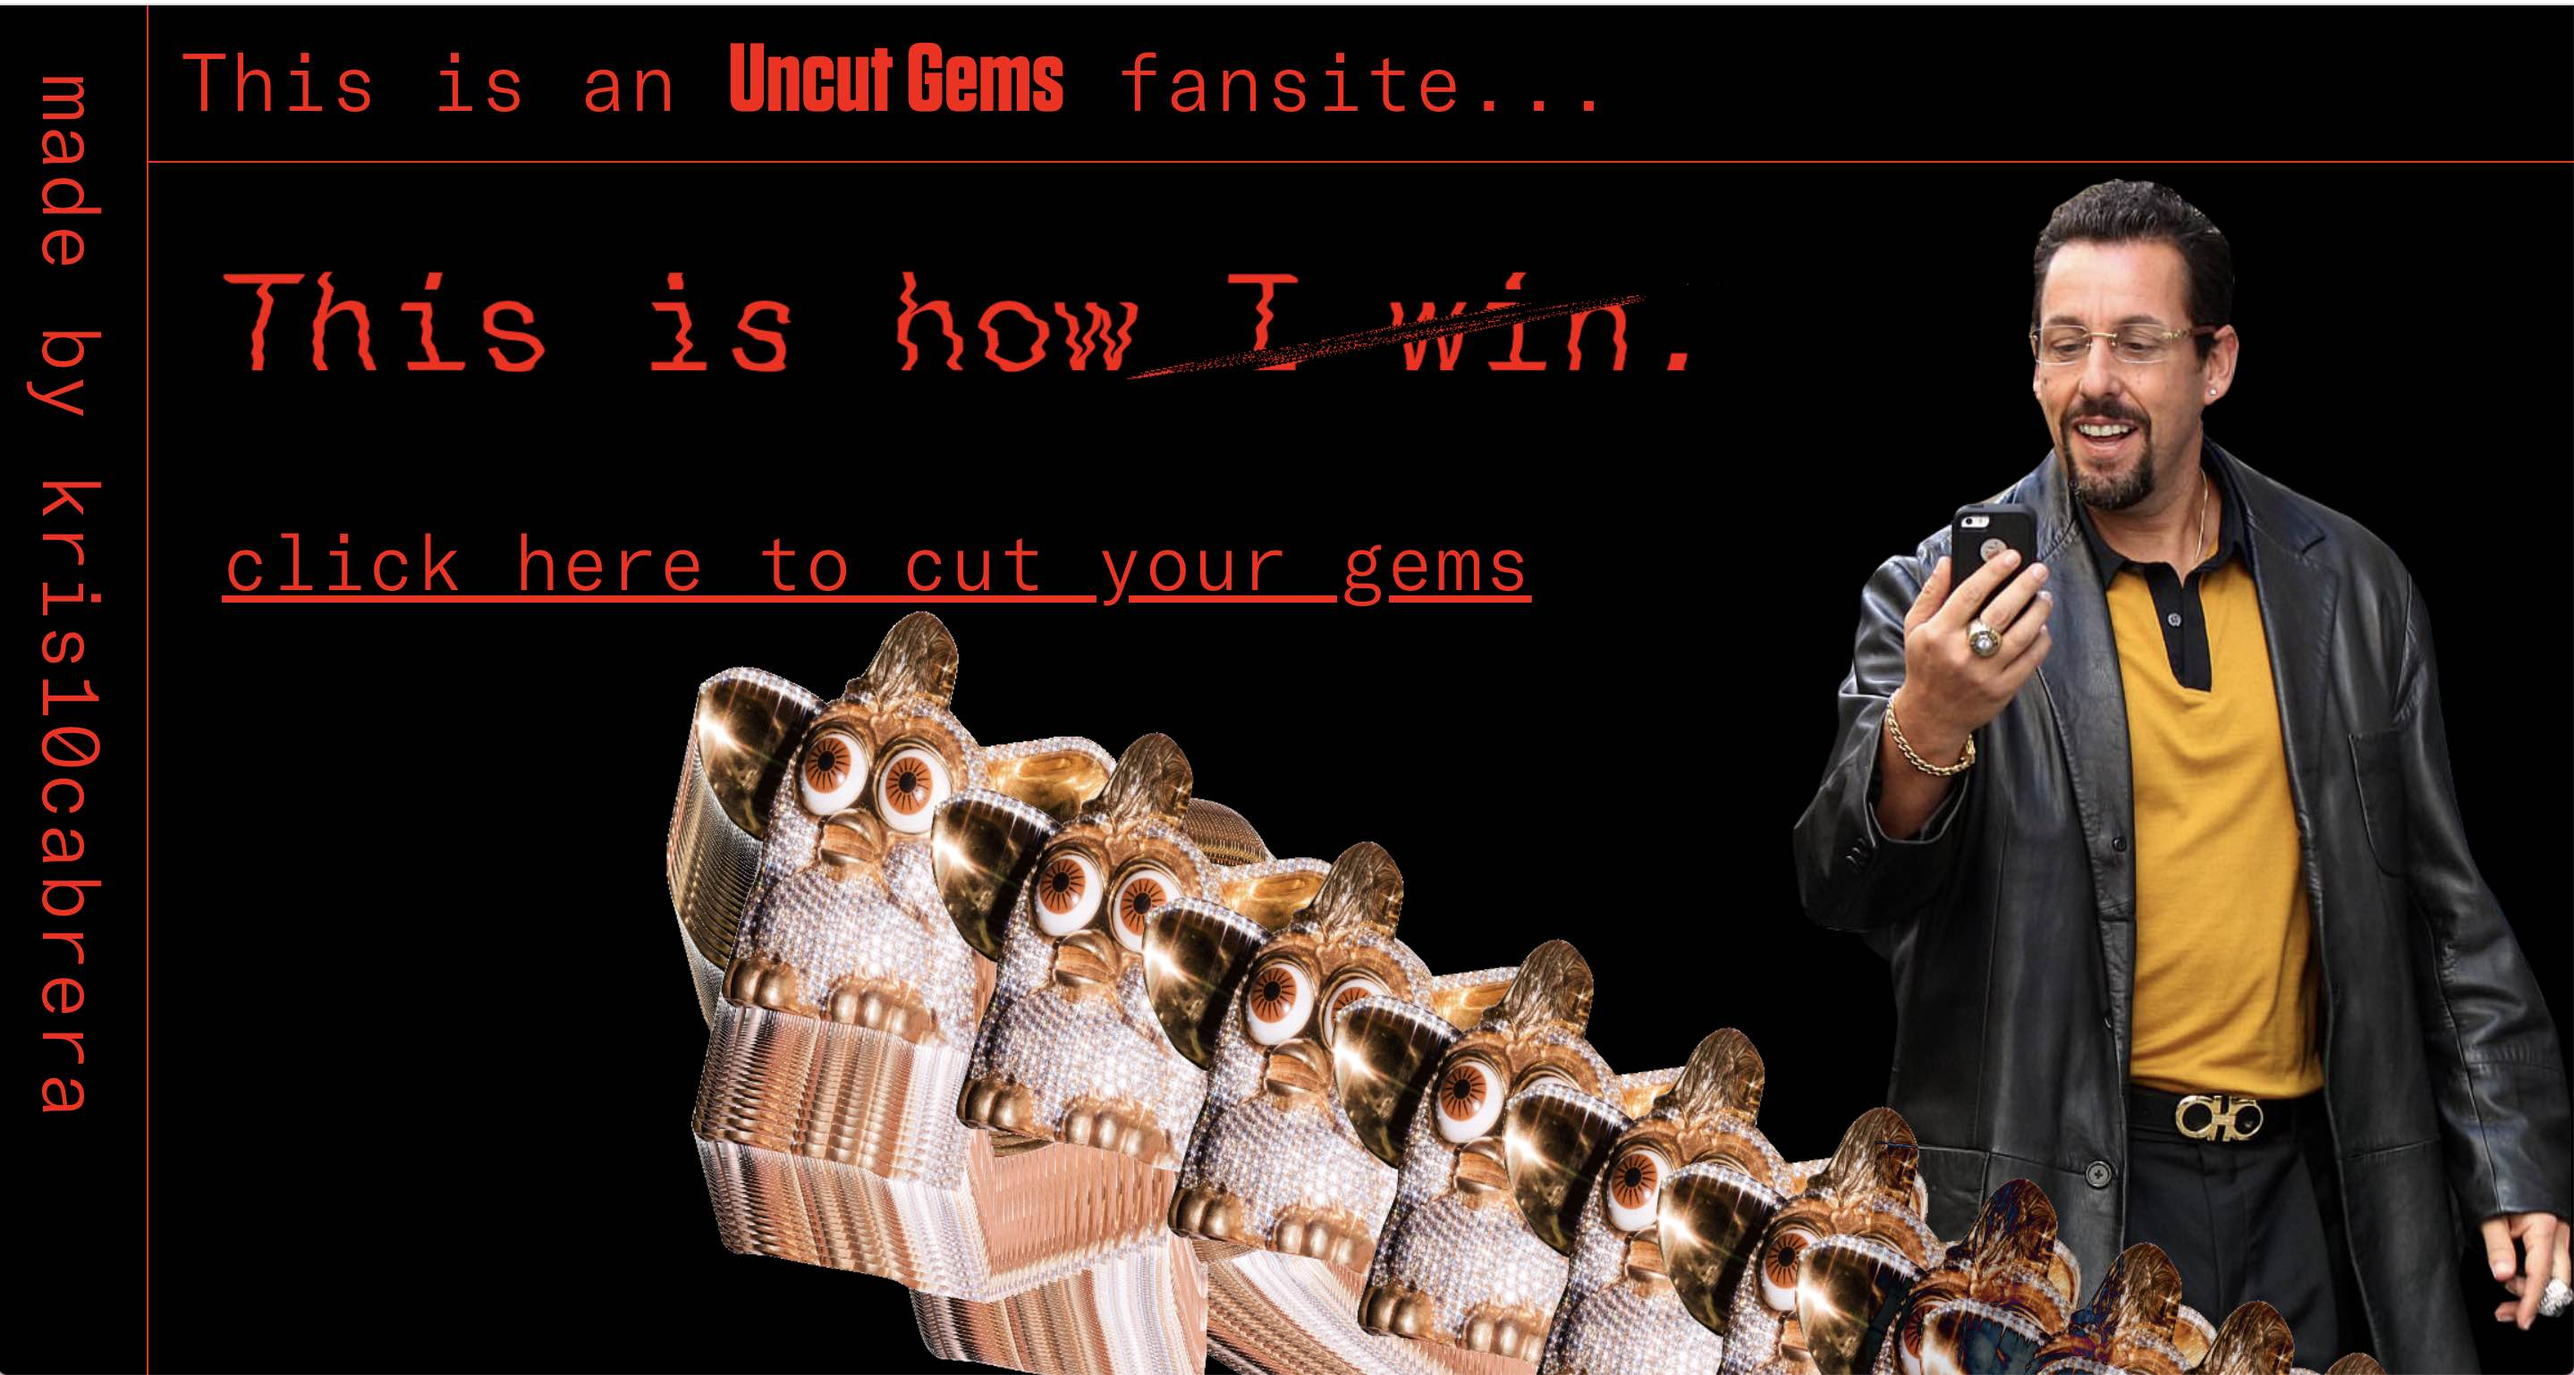
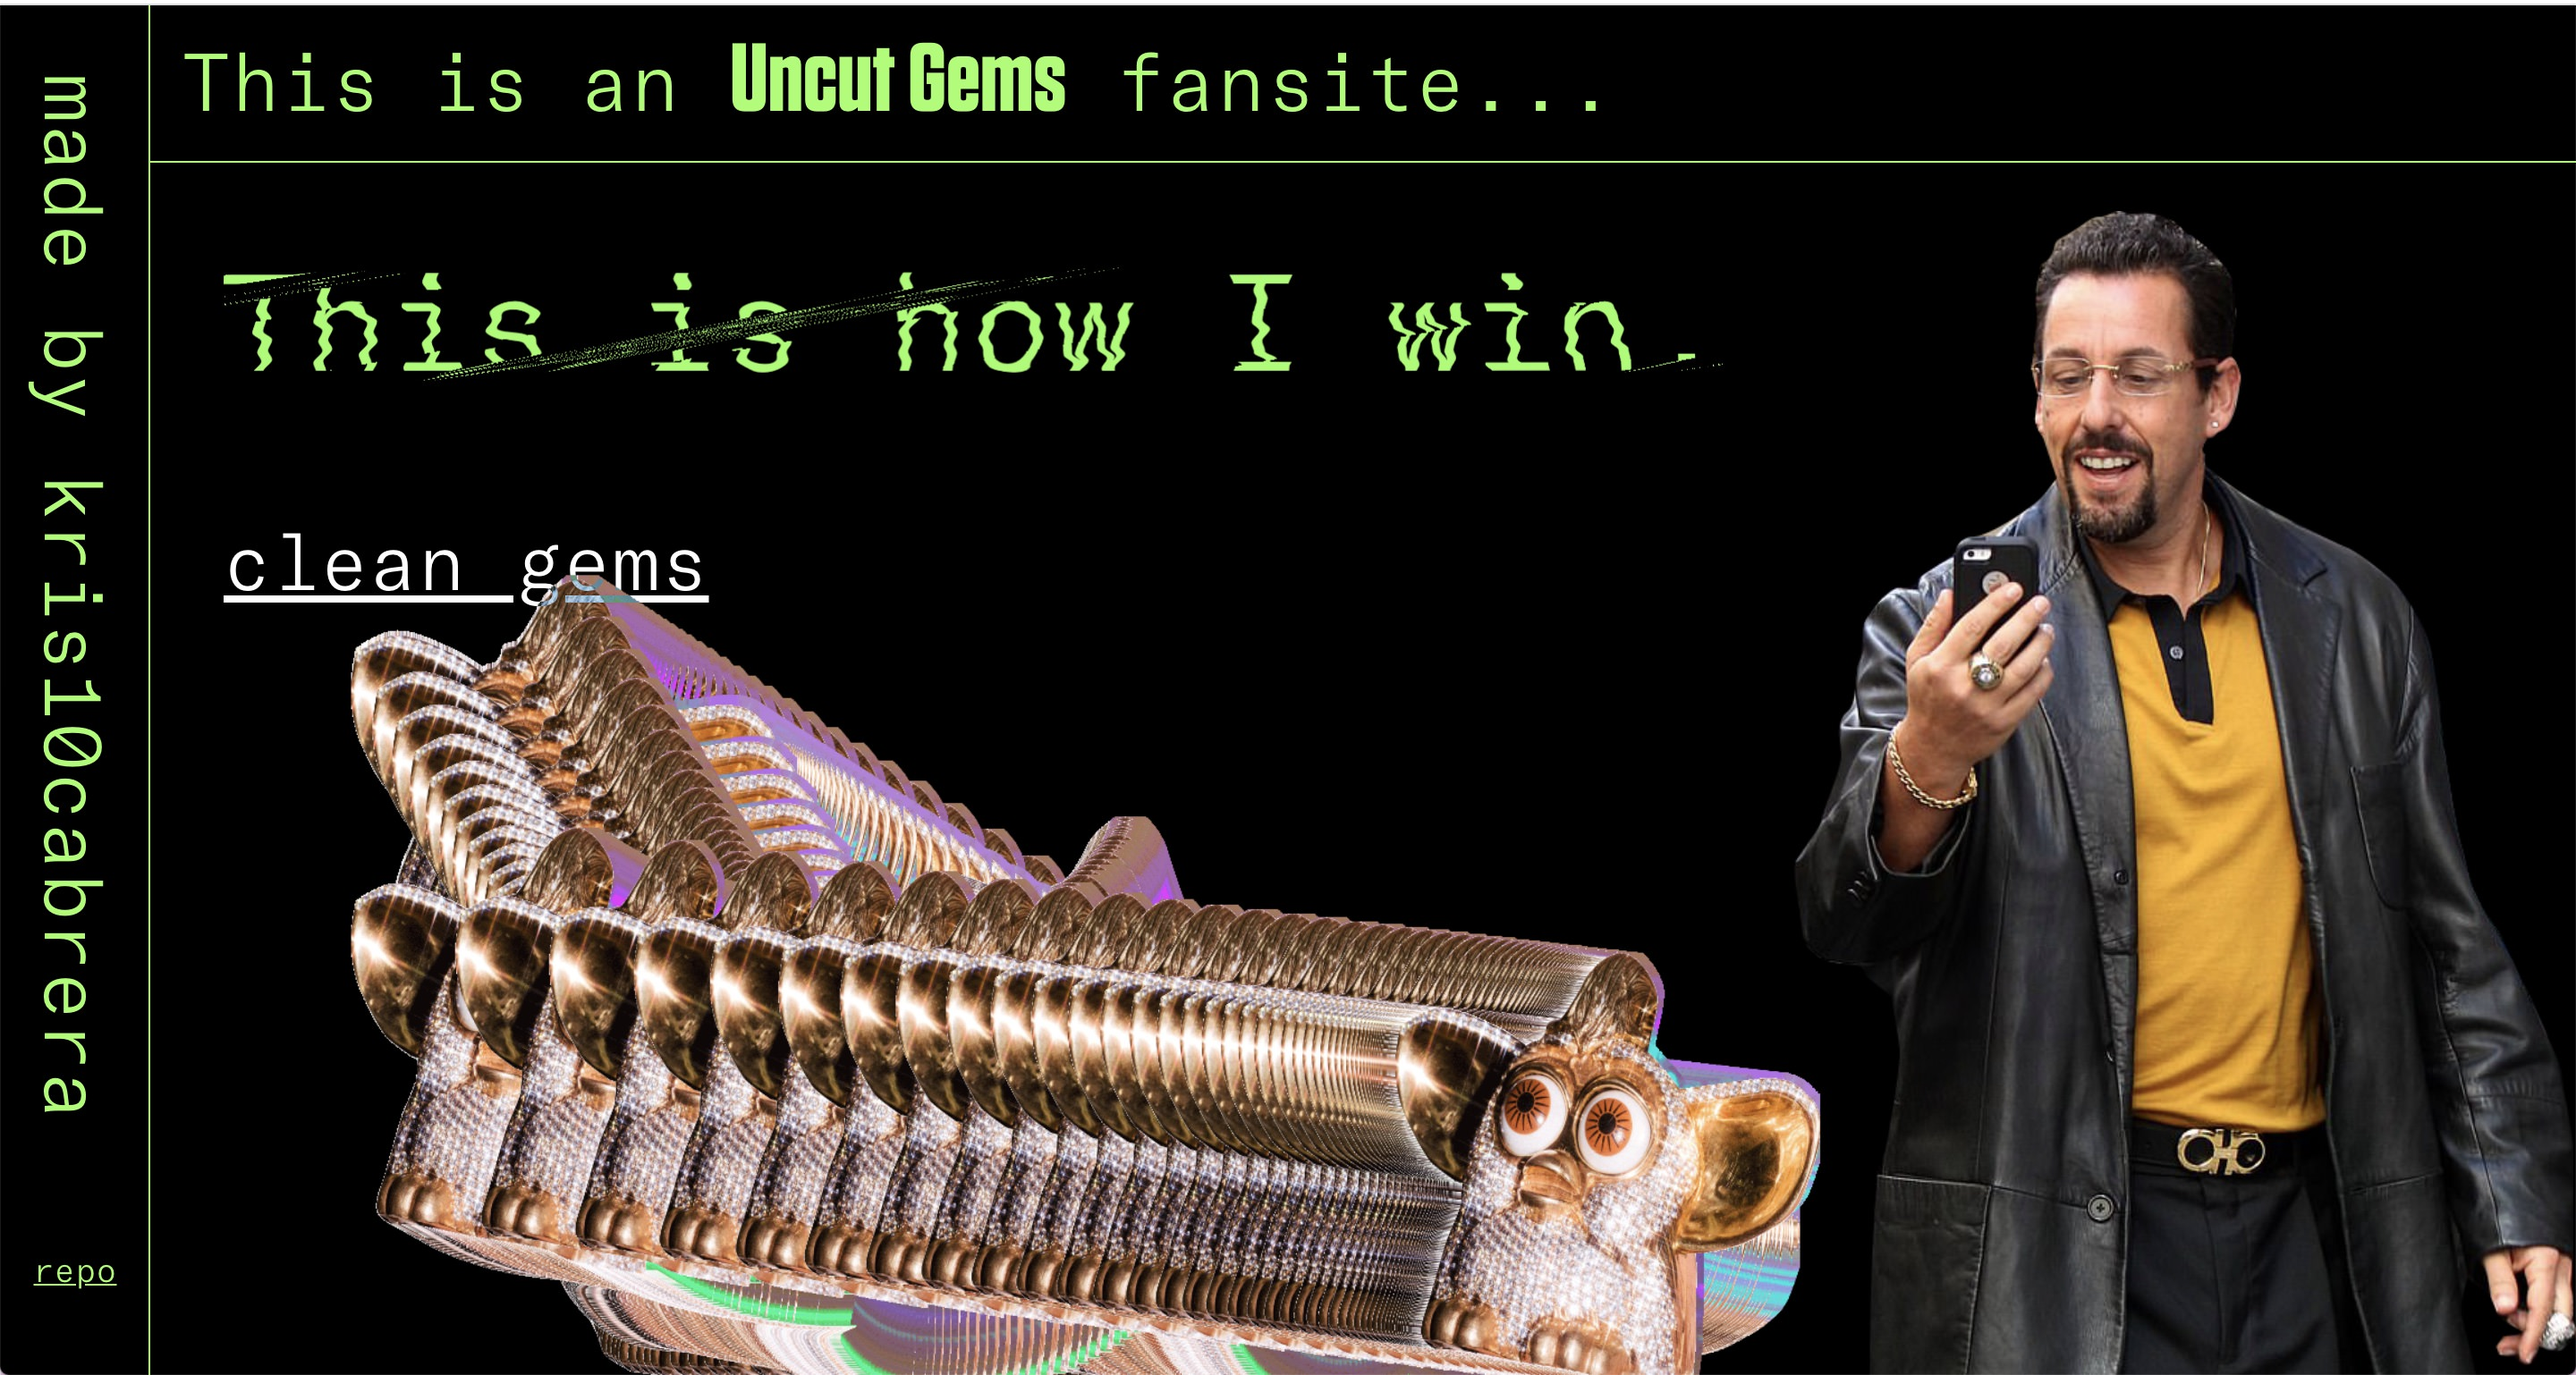
update images and mobile sizing

diff --git a/script.js b/script.js
@@ -15,7 +15,7 @@ let currentY = null
 image = document.createElement('img');
 image.src = 'images/furbygif.gif';
 
-document.addEventListener('mousemove', function(event) {
+document.addEventListener('mousemove', function (event) {
   aimX = event.pageX
   aimY = event.pageY
   if (currentX === null) {
@@ -25,7 +25,7 @@ document.addEventListener('mousemove', function(event) {
 })
 
 // for mobile 
-canvas.addEventListener('touchmove', function(event) {
+canvas.addEventListener('touchmove', function (event) {
   event.preventDefault();
   aimX = event.pageX
   aimY = event.pageY
@@ -35,26 +35,28 @@ canvas.addEventListener('touchmove', function(event) {
   }
 })
 
-const draw = function() {
+const draw = function () {
   if (currentX) {
     if (image.complete) {
-      context.drawImage(image, currentX - 100, currentY - 100, 200, 200)
+      let x = window.innerWidth > 800 ? 200 : 100;
+      let y = window.innerWidth > 800 ? 200 : 100;
+      context.drawImage(image, currentX - 100, currentY - 100, x, y)
     }
     currentX = currentX + (aimX - currentX) * 0.1;
     currentY = currentY + (aimY - currentY) * 0.1;
   }
-//   wait for the next frame and then do this again 
+  //   wait for the next frame and then do this again 
   requestAnimationFrame(draw)
 }
 
 const button = document.querySelector('#drawBegin');
 var clickCount = 0;
-button.addEventListener('click', function(event){
+button.addEventListener('click', function (event) {
   clickCount++;
   draw();
   if (clickCount > 1) {
     context.clearRect(0, 0, canvas.width, canvas.height);
   }
   button.innerHTML = 'clean gems';
-  button.style="color: white;";
+  button.style = "color: white;";
 });

diff --git a/index.html b/index.html
@@ -24,18 +24,18 @@
         var text = new Blotter.Text("This is how I win.", {
           family: "'GT America Mono', monospace",
           size: 60,
-          fill: "#FF0000"
+          fill: "#99ff66"
         });
       } else {
         var text = new Blotter.Text("This is how I win.", {
           family: "'GT America Mono', monospace",
           size: 25,
-          fill: "#FF0000"
+          fill: "#99ff66"
         });
       }
 
       var material = new Blotter.RollingDistortMaterial();
-
+      material.uniforms.uSpeed.value = 0.25;
       var blotter = new Blotter(material, { texts: text });
 
       var scope = blotter.forText(text);

diff --git a/style.css b/style.css
@@ -71,7 +71,7 @@ table {
 
 body {
   background:black;
-  color: #FF0000;
+  color: #99ff66;
   font-family: 'GT America Mono';
   font-weight: 300;
   -webkit-font-smoothing : antialiased;
@@ -95,7 +95,7 @@ a {
 
 header {
   font-size: 36px;
-  border-bottom: #FF0000 1px solid;
+  border-bottom: #99ff66 1px solid;
   position: fixed;
   top:0;
   left:0;
@@ -112,7 +112,7 @@ header {
   top: 0;
   bottom: 0;
   padding: 30px 0 30px 55px;
-  border-right: #FF0000 1px solid;
+  border-right: #99ff66 1px solid;
   background: black;
   width: 1vw;
   z-index: 2;
